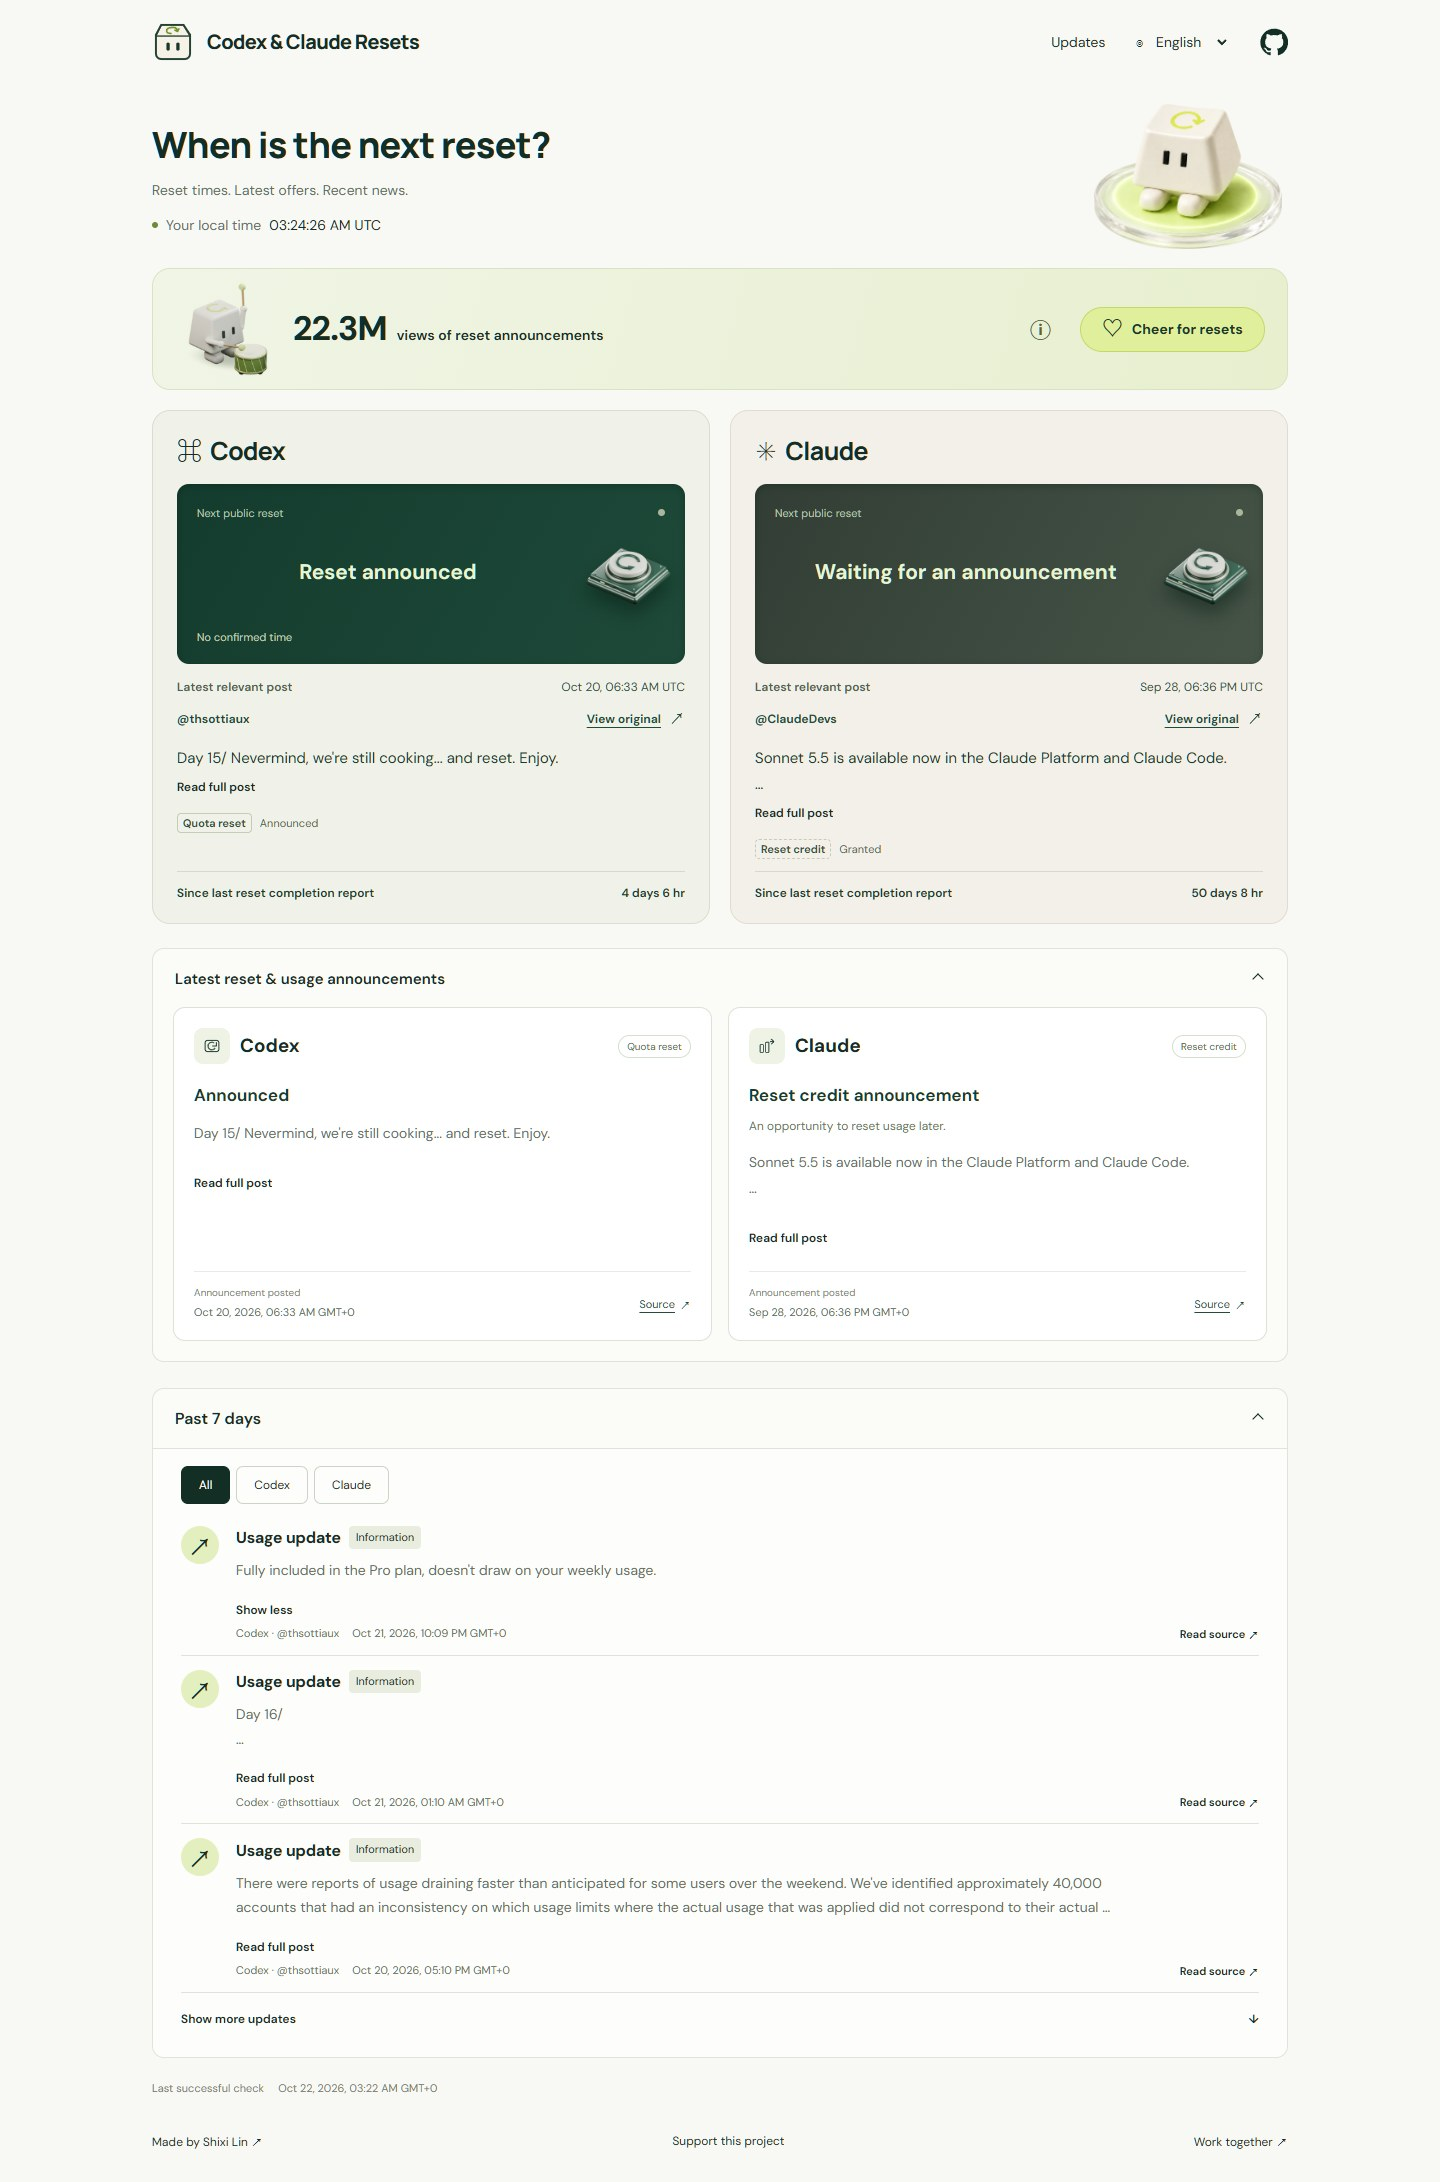
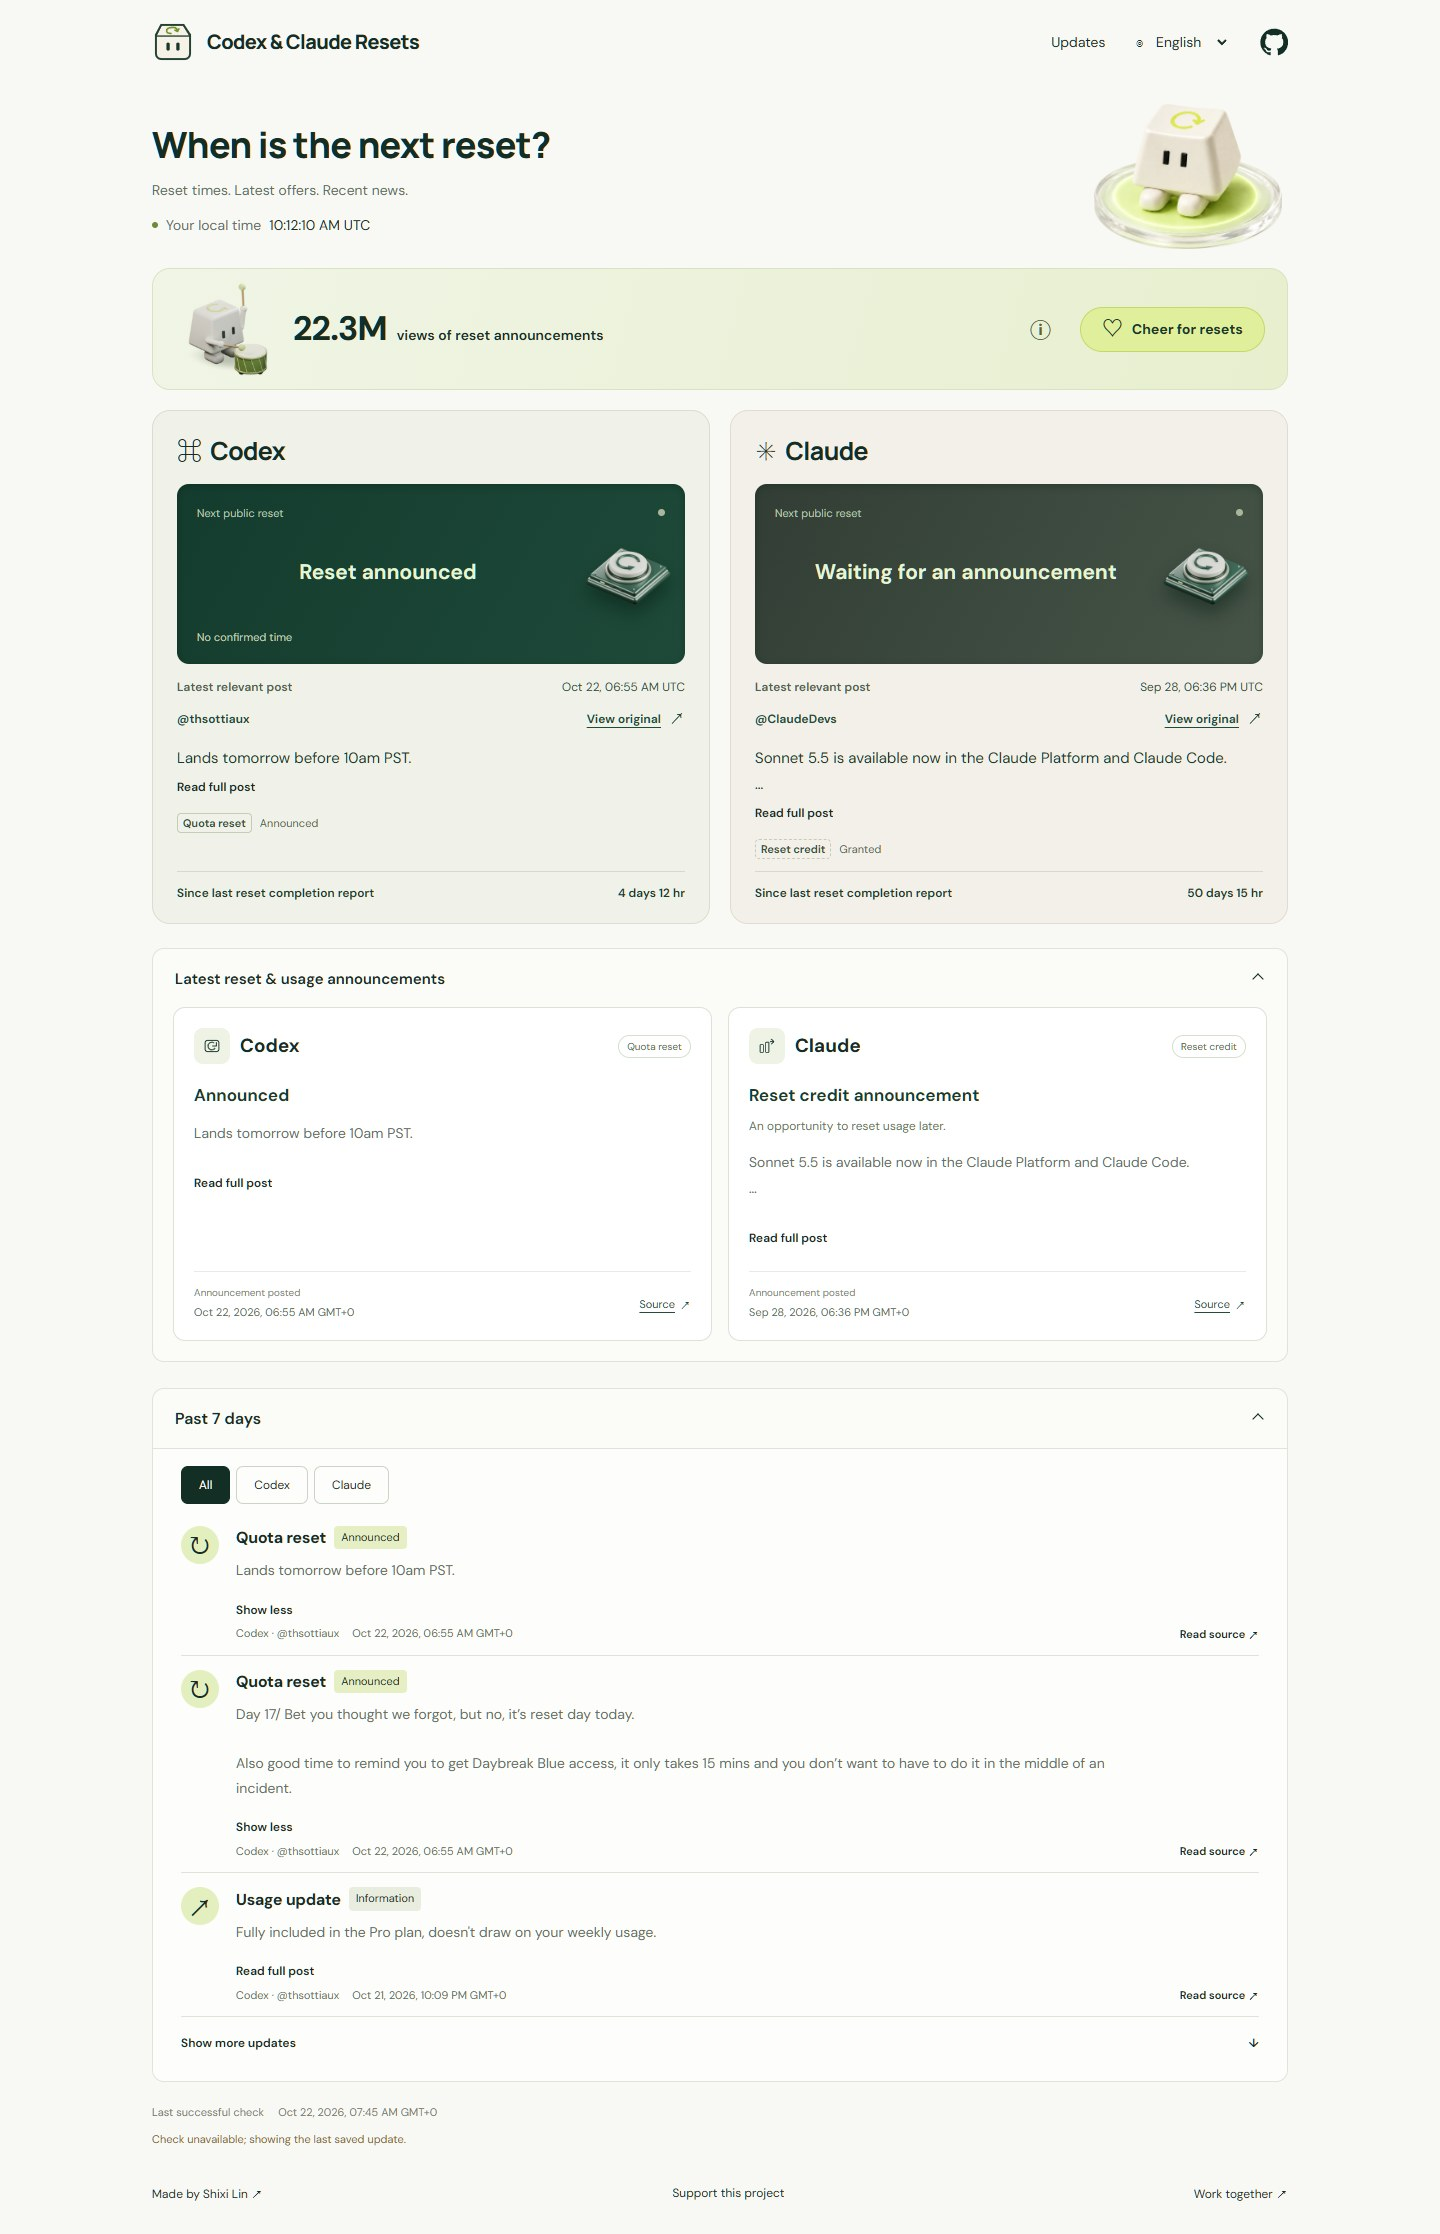
docs: verify Day 17 production preview and source DOM times

diff --git a/docs/data.md b/docs/data.md
@@ -42,7 +42,7 @@ Codex or ChatGPT Work announcements that explicitly increase or improve the effe
 
 The October 22 [Day 17 announcement](https://x.com/thsottiaux/status/2113162277688070445) says it is reset day; its rhetorical "but no" denies forgetting, not the reset. A narrow complete-text same-author rule recognizes the announcement without weakening actual denial, quotation, truncation or amendment guards. The separate Daybreak Blue reminder does not establish eligible plans or a reset prerequisite.
 
-Its [direct timing reply](https://x.com/thsottiaux/status/2113162413008884099) says `Lands tomorrow before 10am PST.` The keywordless reply enters primary verification, and becomes `global` / `announced` only after its recent same-author parent is independently verified. The originals were published at 2026-10-22 06:55:22 and 06:55:54 UTC respectively; in America/Los_Angeles that was October 21 23:55 PDT. Thus the relative tomorrow points to October 22 in the source Pacific calendar, not October 23 merely because the UTC date had changed.
+Its [direct timing reply](https://x.com/thsottiaux/status/2113162413008884099) says `Lands tomorrow before 10am PST.` The keywordless reply enters primary verification, and becomes `global` / `announced` only after its recent same-author parent is independently verified. The delegated cloud browser directly read X DOM datetime attributes `2026-10-22T06:55:22.000Z` and `2026-10-22T06:55:54.000Z` for the main and reply respectively, corroborating the same publication seconds from verified post IDs and relay timestamps; in America/Los_Angeles that was October 21 23:55 PDT. Thus the relative tomorrow points to October 22 in the source Pacific calendar, not October 23 merely because the UTC date had changed.
 
 `before` is an upper bound, not an exact reset instant. Literal PST (UTC-08:00) implies before October 22 18:00 UTC / October 23 02:00 Beijing; colloquial Pacific daylight time (UTC-07:00) would imply before 17:00 UTC / October 23 01:00 Beijing. The source does not disambiguate the two. Store the original timing note as `deadlineText`, literal `sourceTimezone: PST`, `timeKind: deadline`, `timeBasis: source-timezone-ambiguous`, and `resetAt: null`. No countdown, completion, plan guarantee or personal receipt follows. The main original retains its two authored paragraphs. `test/fixtures/oct22-day17-reset.json` and the collector regression cover this evidence and failure handling.
 
